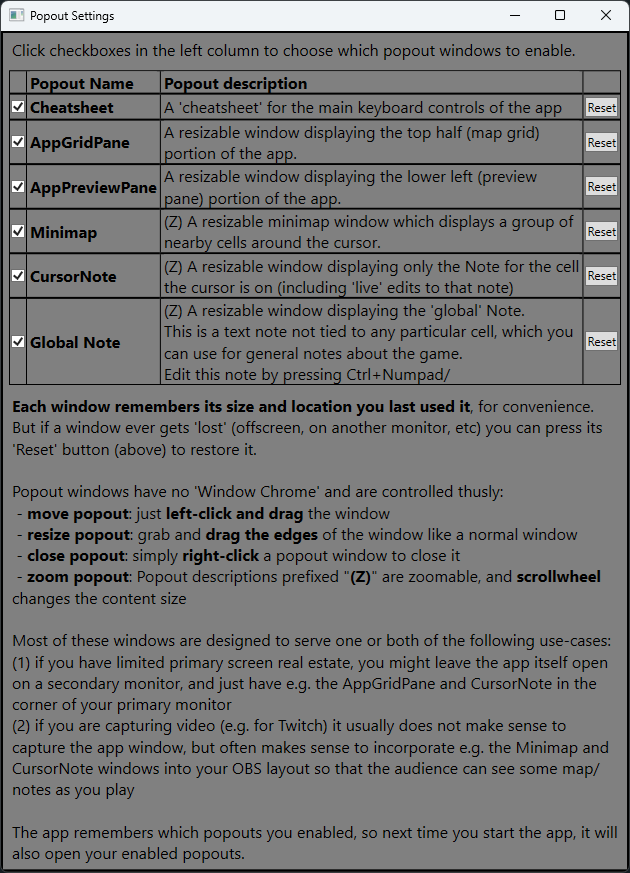
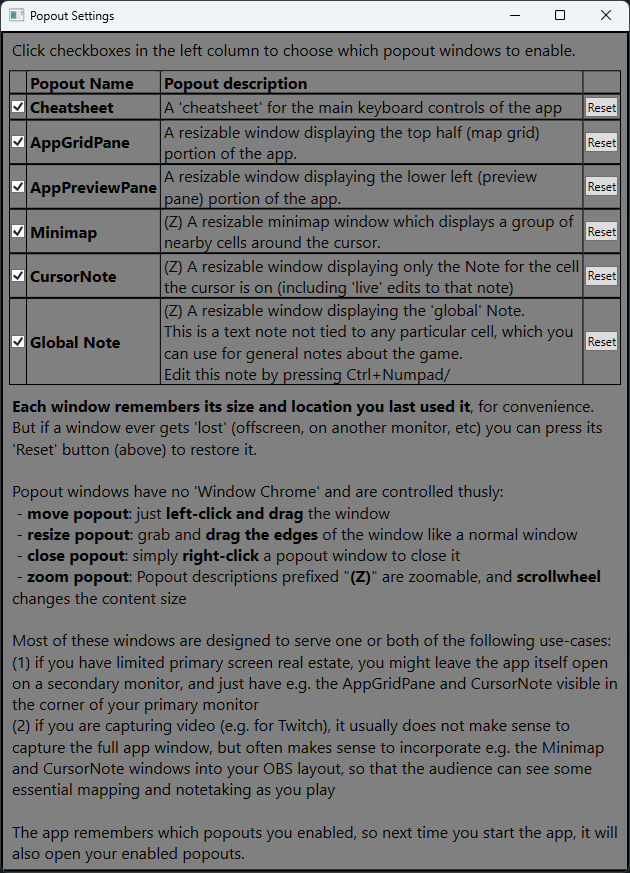
minor doc updates

Changed region(s): [[0.0, 0.7732, 0.9651, 0.9278]]

diff --git a/doc/main.md b/doc/main.md
@@ -1,3 +1,4 @@
+# ScreenshotMapTools full documentation
 
 ## On this page
 
@@ -19,6 +20,8 @@ FEATURES FOR USER-PRODUCTIVITY AND OBS-BROADCASTING
 * [Glass tool for scribbling](#glass)
 
 Jump to any of the linked topics above, or scroll down to read them one-by-one.
+
+-----
 
 ## <a id="downloading"></a>Downloading and running the tool
 
